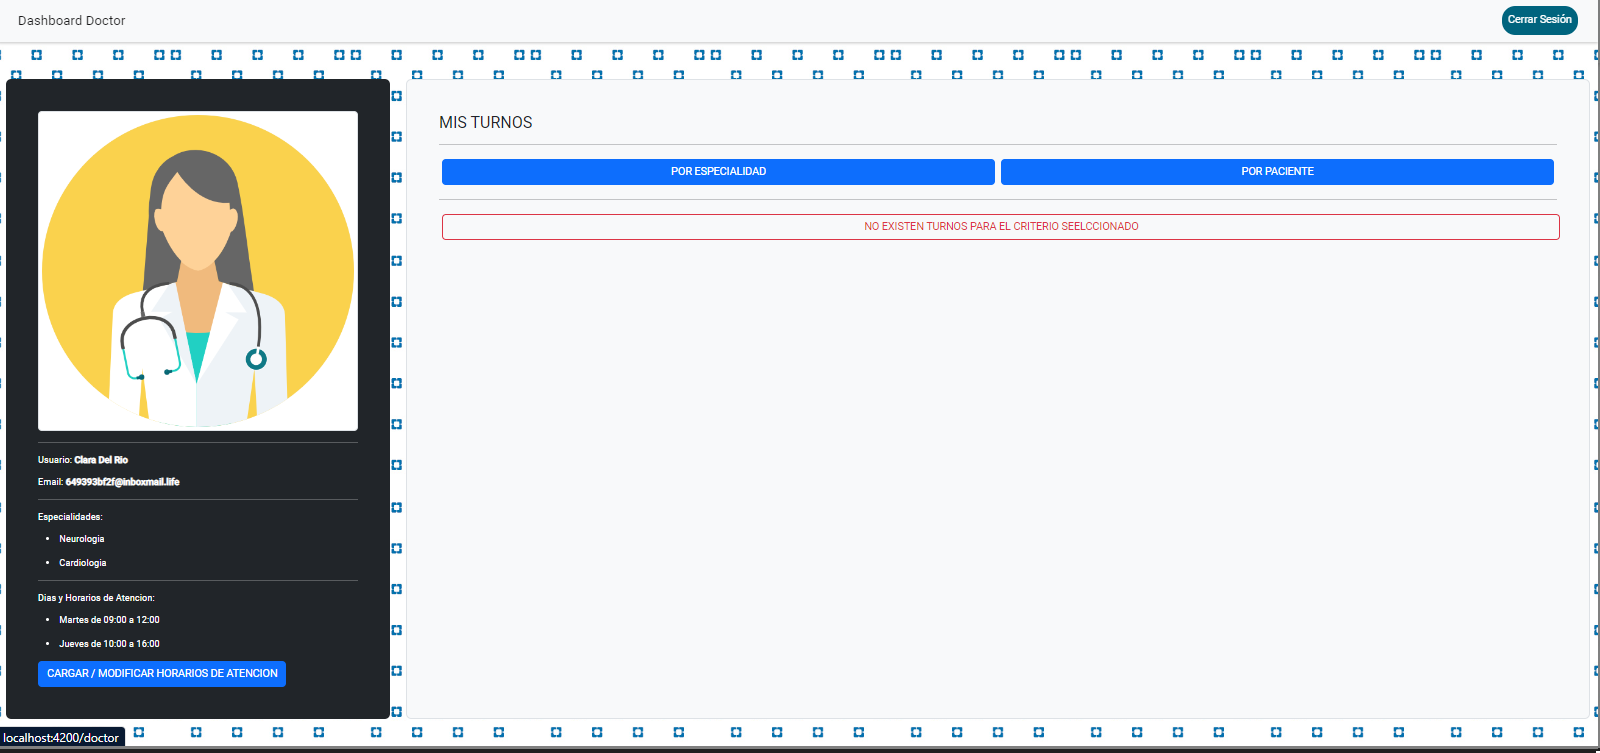
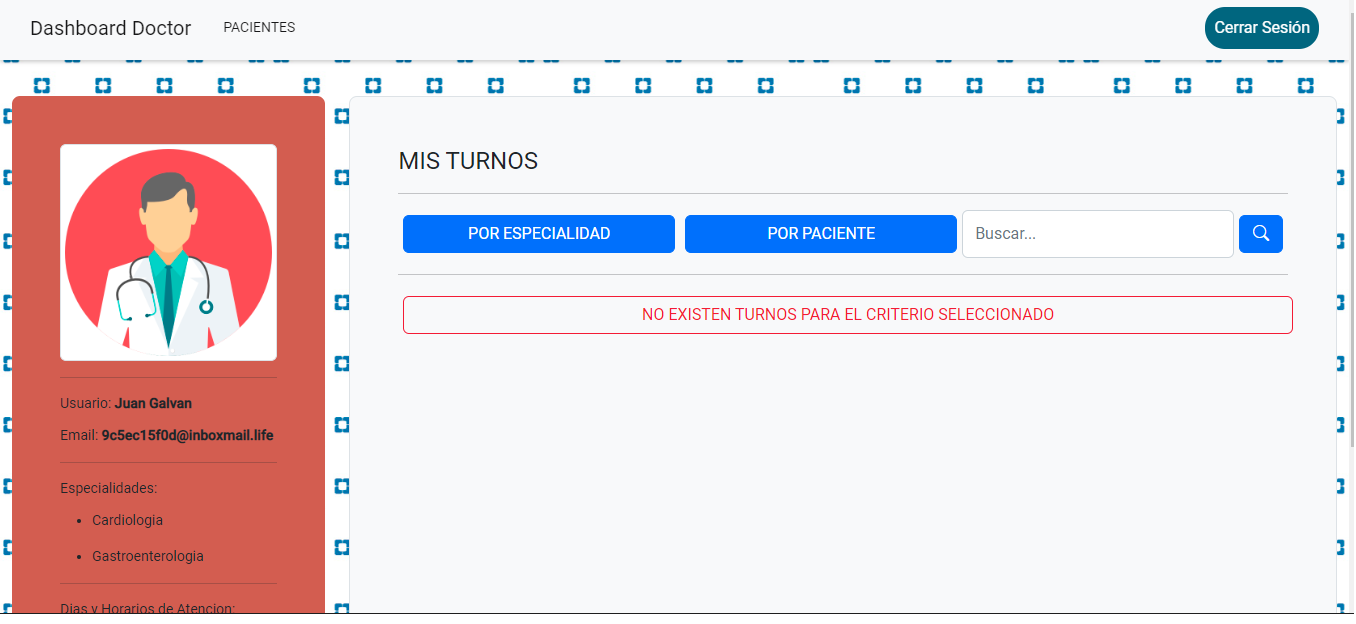
Ver 1.0 (FINAL)

diff --git a/src/app/modules/admin-dashboard/reports/appointments-specialty/appointments-specialty.component.ts b/src/app/modules/admin-dashboard/reports/appointments-specialty/appointments-specialty.component.ts
@@ -49,9 +49,8 @@ export class AppointmentsSpecialtyComponent implements OnInit {
       const result =  this.specialties.reduce((json,val)=>({...json, [val]:(json[val] | 0) + 1}),{});
       this.data.labels = Object.keys(result);
       this.data.series.push(Object.values(result));
-    });
-
-    new BarChart('#chart1', this.data, this.options);
+      new BarChart('#chart1', this.data, this.options);
+    })      
   }
 
   downloadData() {

diff --git a/src/app/modules/admin-dashboard/reports/appointments-day/appointments-day.component.ts b/src/app/modules/admin-dashboard/reports/appointments-day/appointments-day.component.ts
@@ -48,8 +48,8 @@ export class AppointmentsDayComponent implements OnInit {
       const result =  this.dates.reduce((json,val)=>({...json, [val]:(json[val] | 0) + 1}),{});
       this.data.labels = Object.keys(result);
       this.data.series.push(Object.values(result));
+      new LineChart('#chart4', this.data, this.options);
     });
-    new LineChart('#chart4', this.data, this.options);
   }
 
   downloadData() {

diff --git a/src/app/modules/admin-dashboard/reports/appointments-doctor/appointments-doctor.component.ts b/src/app/modules/admin-dashboard/reports/appointments-doctor/appointments-doctor.component.ts
@@ -44,8 +44,8 @@ export class AppointmentsDoctorComponent implements OnInit {
       console.log(Object.values(result));
       this.data.labels = Object.keys(result);
       this.data.series = Object.values(result);
+      new PieChart('#chart2', this.data, this.options);
     });
-    new PieChart('#chart2', this.data, this.options);
   }
 
   downloadData() {

diff --git a/src/app/modules/admin-dashboard/reports/appointments-ended/appointments-ended.component.ts b/src/app/modules/admin-dashboard/reports/appointments-ended/appointments-ended.component.ts
@@ -44,8 +44,8 @@ export class AppointmentsEndedComponent implements OnInit {
       console.log(Object.values(result));
       this.data.labels = Object.keys(result);
       this.data.series = Object.values(result);
+      new PieChart('#chart3', this.data, this.options);
     });
-    new PieChart('#chart3', this.data, this.options);
   }
 
   downloadData() {

diff --git a/README.md b/README.md
@@ -52,9 +52,21 @@ Un administrador puede ver los turnos de la clinica por especialidad o especiali
 
 <img src="documents/07-verturnoadministrador-E.png" width="500"/><img src="documents/07-verturnoadministrador-F.png" width="500"/>
 
+###### USUARIOS (ADMINISTRADOR):
+
+En esta seccion el administrador ve a todos los usuarios del sistema  y puede acceder a un pdf con la informacion de los turnos que tomo o dio cada uno presionando la imagen de perfil del usuario.
+
+<img src="documents/administrador-usuarios.png" width="500"/>
+
+###### INFORMES (ADMINISTRADOR):
+
+En esta seccion el administrador ve adistintos reportes sobre las estadisticas de uso del sistema y puede descargar los mismos. 
+
+<img src="documents/administrador-informes.png" width="500"/>
+
 ###### PANEL DE CONTROL (PROFESIONAL):
 
-Un profesional aca puede administrar sus horarios de atencion y sus turnos. Del horaro de atencion puede elegir el dia y en que franja horaria desea atender. De sus turnos, los mismos los puede filtrar por especialidades que tenga o pacientes. Y de los mismos puede realizar las siguientes acciones: rechazar o cancelar un turno (dando un motivo de porque los cancela), aceptarlos y finalizarlos (al finalizarlos debe dar un resumen del turno y el diagnostico del mismo) A su vez puede  ver el detalle de todas estas acciones descriptas anteriormente.
+Un profesional aca puede administrar sus horarios de atencion y sus turnos. Del horario de atencion puede elegir el dia y en que franja horaria desea atender. De sus turnos, los mismos los puede filtrar por especialidades que tenga, pacientes que posean turnos con el o por un buscador de palabras clave. Y de los mismos puede realizar las siguientes acciones: rechazar o cancelar un turno (dando un motivo de porque los cancela), aceptarlos y finalizarlos (al finalizarlos debe dar un resumen del turno y el diagnostico del mismo) A su vez puede  ver el detalle de todas estas acciones descriptas anteriormente.
 
 <img src="documents/08-panelprofesional-A.png" width="500"/><img src="documents/08-panelprofesional-B.png" width="500"/>
 
@@ -64,9 +76,15 @@ Un profesional aca puede administrar sus horarios de atencion y sus turnos. Del 
 
 <img src="documents/08-panelprofesional-H.png" width="500"/>
 
+###### PACIENTES (PROFESIONAL):
+
+Un profesional aca puede ver los pacientes que ya haya atendido y ver la historia clinica de los mismos y descargar la misma en PDF.
+
+`<img src="documents/doctor-pacientes1.png" width="500"/><img src="documents/doctor-pacientes2.png" width="500"/>`
+
 ###### PANEL DE CONTROL (PACIENTE):
 
-Un paciente aca puede ver su perfil y sus turnos ya sacados. Estos turnos los filtra o por especialidad o por especialista y de los mismos ve los datos del turno y puede elegir cancelarlo si aun no fue aceptado o cancelado/rechazado por el profesional/administrador. A su ves de los turnos que ya se resolvieron por alguno de los dos caminos puede ver el detalle de los mismos. Y ademas puede completar una encuesta y puntuar al profesional
+Un paciente aca puede ver su perfil y sus turnos ya sacados. Estos turnos los filtra o por especialidad o por especialista y de los mismos ve los datos del turno y puede elegir cancelarlo si aun no fue aceptado o cancelado/rechazado por el profesional/administrador. A su ves de los turnos que ya se resolvieron por alguno de los dos caminos puede ver el detalle de los mismos. Y ademas puede completar una encuesta y puntuar al profesional. Tambien puede ver su historia clinica filtrando por especialidad y descargar la misma en PDF.
 
 <img src="documents/09-panelPaciente-A.png" width="500"/><img src="documents/09-panelPaciente-B.png" width="500"/>
 
@@ -74,7 +92,9 @@ Un paciente aca puede ver su perfil y sus turnos ya sacados. Estos turnos los fi
 
 <img src="documents/09-panelPaciente-E.png" width="500"/><img src="documents/09-panelPaciente-F.png" width="500"/>
 
-<img src="documents/09-panelPaciente-G.png" width="500"/><img src="documents/09-panelPaciente-H.png" width="500"/>
+`<img src="documents/09-panelPaciente-G.png" width="500"/><img src="documents/09-panelPaciente-H.png" width="500"/>`
+
+`<img src="documents/paciente-historia.png" width="500"/>`
 
 ###### SACAR TURNO (PACIENTE):
 
@@ -92,7 +112,12 @@ Se cuenta con una pagina de error 404 para direcciones inexistentes y guards par
 
 Requerimientos por sprint y su estado
 
-<img src="documents/sprint1.png" width="800"/>
+`<img src="documents/requerimientoSprints.png" width="800"/>`
 
-<img src="documents/sprint2.png" width="800"/>
+<img src="documents/09-panelPaciente-H.png" width="500"/>
 
+
+<img src="documents/09-panelPaciente-H.png" width="500"/>
+
+
+<img src="documents/09-panelPaciente-H.png" width="500"/>
